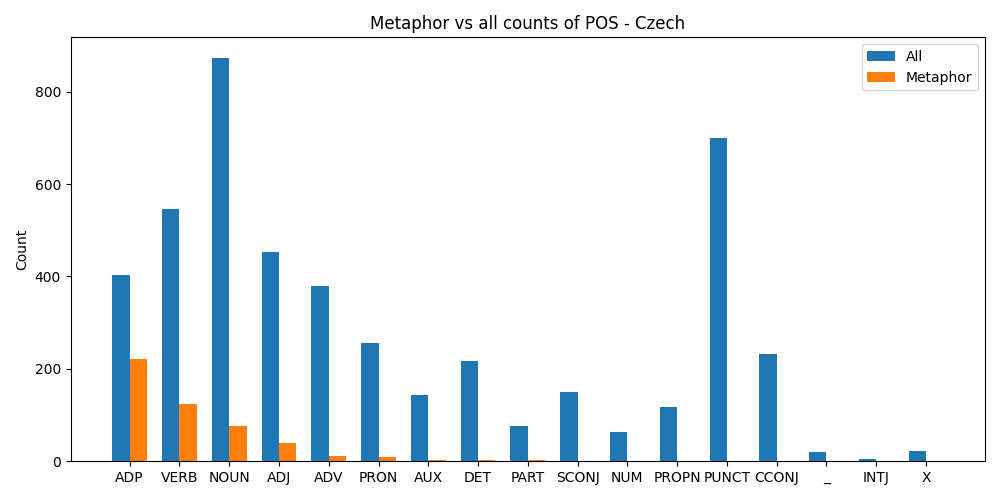
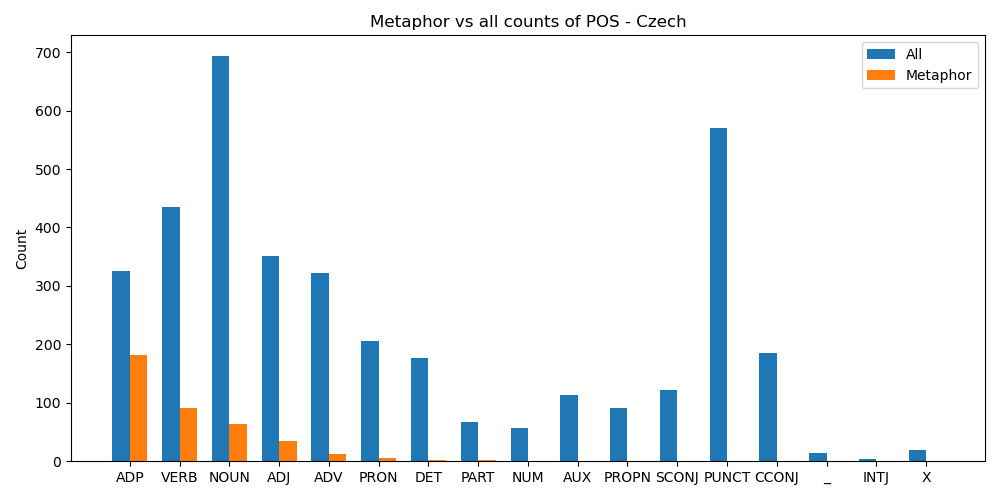
analysis dump

diff --git a/Experiments/Data_analysis/analysis.md b/Experiments/Data_analysis/analysis.md
@@ -1,7 +1,7 @@
 
 ## Slovenian
 
-`0.062240025242322444%` of metaphors
+`6.2240025242322444%` of metaphors
 
 259881 words, 16175 metaphors
 
@@ -38,7 +38,7 @@ most common POS in dataset:
 
 ## English
 
-`0.10911412999953635%` of metaphors
+`10.911412999953635%` of metaphors
 
 237247 words, 25887 metaphors
 
@@ -75,7 +75,7 @@ most common POS in dataset:
 
 ## Spanish WHOLE
 
-`0.01832854602653536%` of metaphors
+`1.832854602653536%` of metaphors
 
 116976 words, 2144 metaphors
 
@@ -110,7 +110,7 @@ most common POS in dataset:
 
 ## Spanish TEST
 
-`0.018187188792303147%` of metaphors
+`1.8187188792303147%` of metaphors
 
 23698 words, 431 metaphors
 
@@ -147,7 +147,7 @@ most common POS in dataset:
 
 ## Spanish TRAIN
 
-`0.018364458929222324%` of metaphors
+`1.8364458929222324%` of metaphors
 
 93278 words, 1713 metaphors
 
@@ -184,7 +184,7 @@ most common POS in dataset:
 
 ## Czech
 
-`0.10538742219360378%` of metaphors
+`10.538742219360378%` of metaphors
 
 4659 words, 491 metaphors
 
